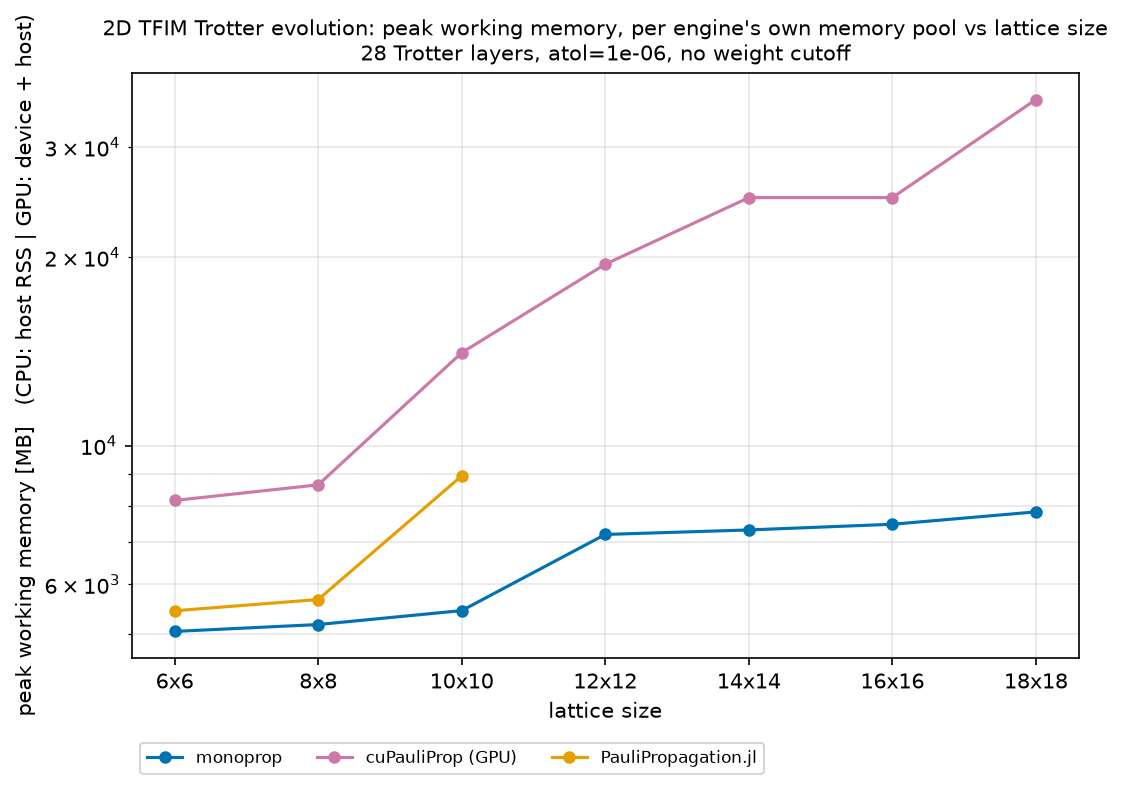
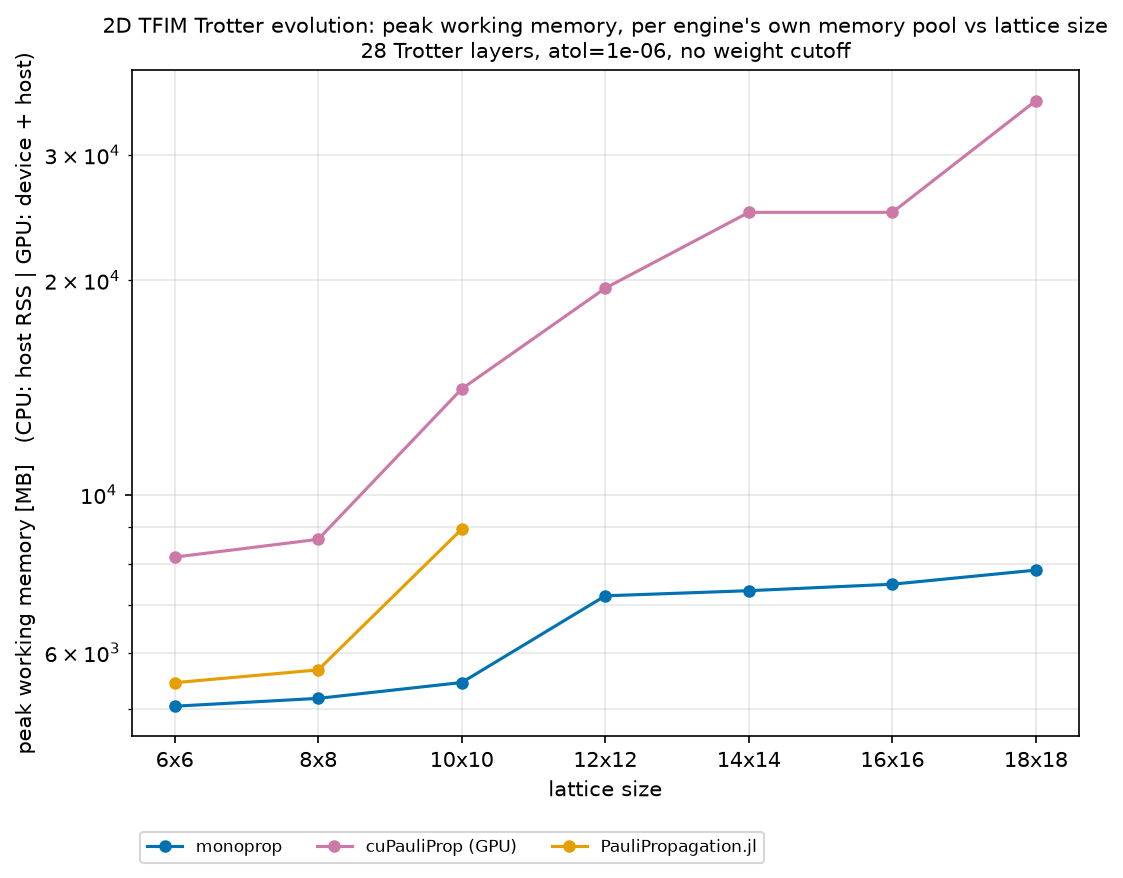
fix: improve figure marker text

diff --git a/packages/bench-third-party/pauli_prop/plot_scaling.py b/packages/bench-third-party/pauli_prop/plot_scaling.py
@@ -324,7 +324,7 @@ def _figure(
     and cited separately, and a shared canvas forces a shared size and one title for two
     different claims. Each figure therefore repeats the model line under its own headline.
     """
-    fig, ax = plt.subplots(figsize=(7.4, 5.4))
+    fig, ax = plt.subplots(figsize=(7.4, 6.0))
     _plot_axes(ax, records, key, ylabel)
     # Title = what was computed, and nothing about where: the machine goes in provenance().
     ax.set_title(
